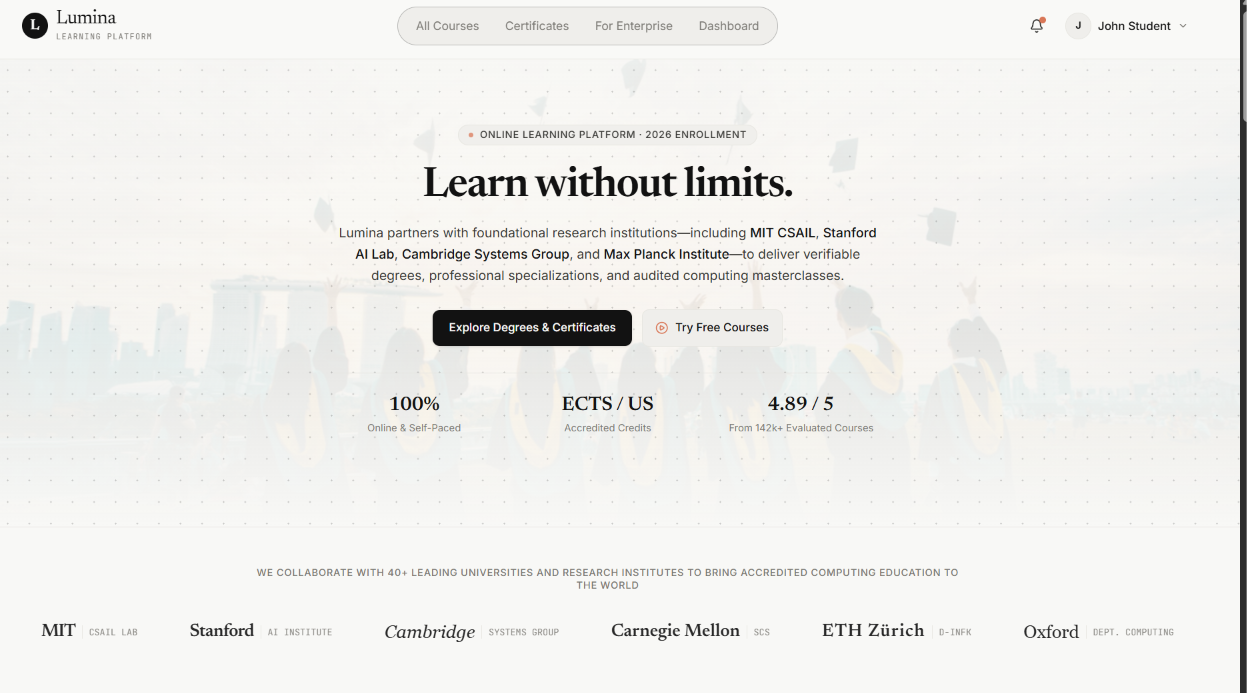
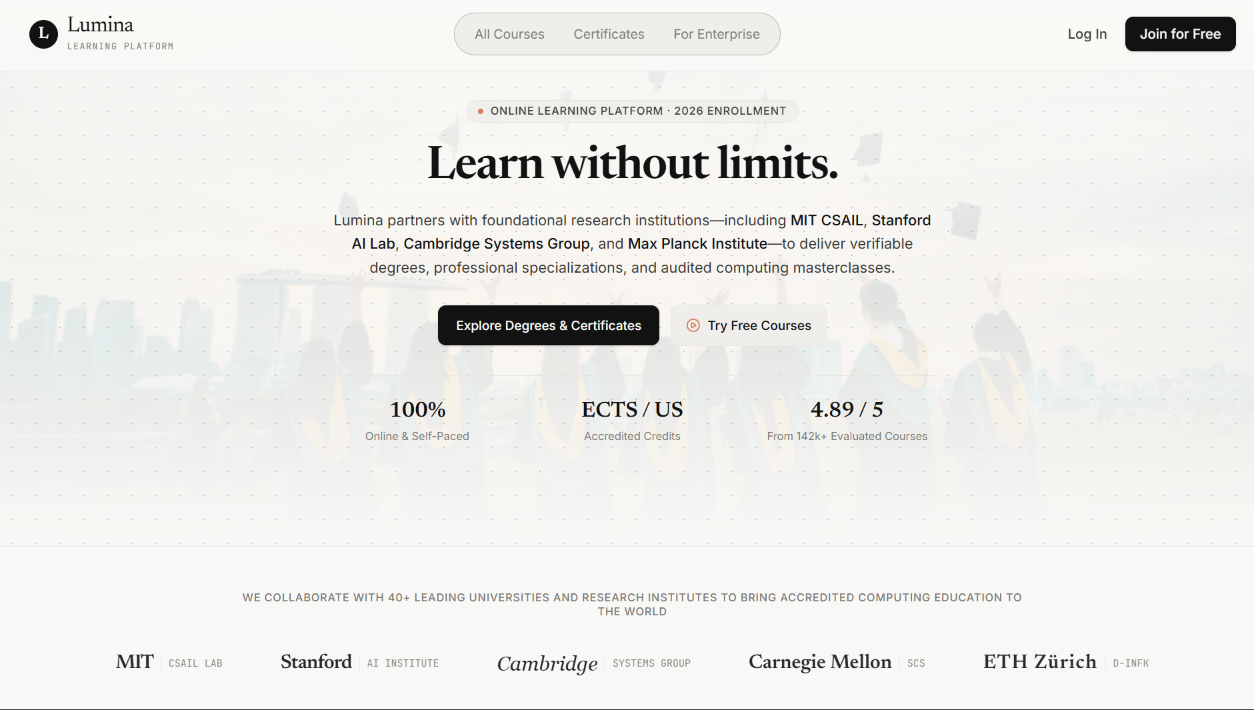
readme file updated

diff --git a/README.md b/README.md
@@ -11,14 +11,27 @@
 
 ---
 
-## 📸 Platform Preview
+## 🌐 Live Platform Preview & Demo
 
-![Lumina Home Page](./public/images/landing_page.png)
+<div align="center">
+
+[![Live Application Demo](https://img.shields.io/badge/Live_Demo-Launch_Application-success?style=for-the-badge&logo=google-chrome&logoColor=white)](https://e-learning-frontend-vvnf.onrender.com/)
+<br />
+<br />
+
+[![Lumina Live Platform Preview](./public/images/landing_page.png)](https://e-learning-frontend-vvnf.onrender.com/)
+
+<p align="center">
+  <b>🔗 <a href="https://e-learning-frontend-vvnf.onrender.com/">Click here or click on the preview image above to open the live application</a> 🔗</b>
+</p>
+
+</div>
 
 ---
 
 ## 📑 Table of Contents
 
+- [Live Platform Preview & Demo](#-live-platform-preview--demo)
 - [Platform Screenshots & Tour](#-platform-screenshots--tour)
   - [1. Landing Page & Editorial Experience](#1-landing-page--editorial-experience)
   - [2. Course Discovery & Catalog](#2-course-discovery--catalog)
@@ -250,4 +263,11 @@ To display images stored in your repository directly in your `README.md`, refere
 <p align="center">
   <img src="./public/images/landing_page.png" alt="Lumina Platform" width="850" />
 </p>
+```
+
+### Clickable Live Preview Link (Standard Alternative to `<iframe>`)
+GitHub and Markdown parsers block interactive `<iframe>` tags for security reasons (preventing XSS and clickjacking). To provide a live interactive experience, wrap your preview snapshot in a markdown link:
+
+```markdown
+[![Preview Title](./public/images/landing_page.png)](https://your-deployed-frontend-url.com)
 ```
